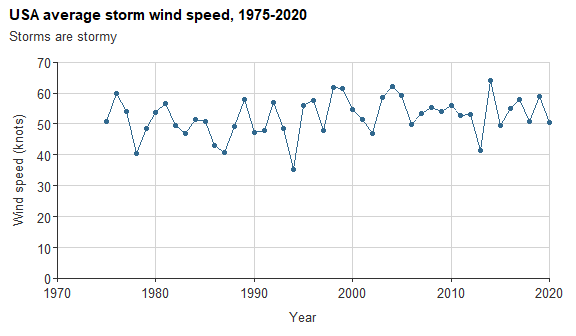
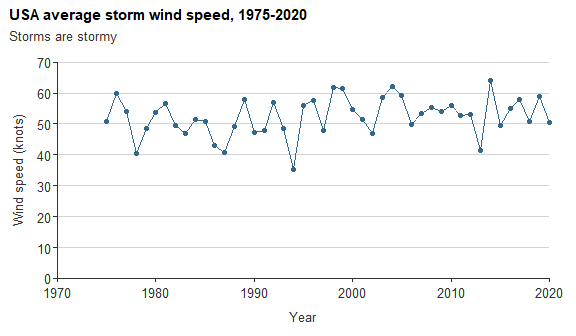
Tweak line graph

diff --git a/README.md b/README.md
@@ -137,7 +137,8 @@ storms %>%
           x_labels = ~.x, 
           title = "USA average storm wind speed, 1975-2020",
           subtitle = "Storms are stormy", 
-          y_title = "Wind speed (knots)") +
+          y_title = "Wind speed (knots)", 
+          theme = gg_theme(y_grid = TRUE)) +
   geom_point()
 ```
 
